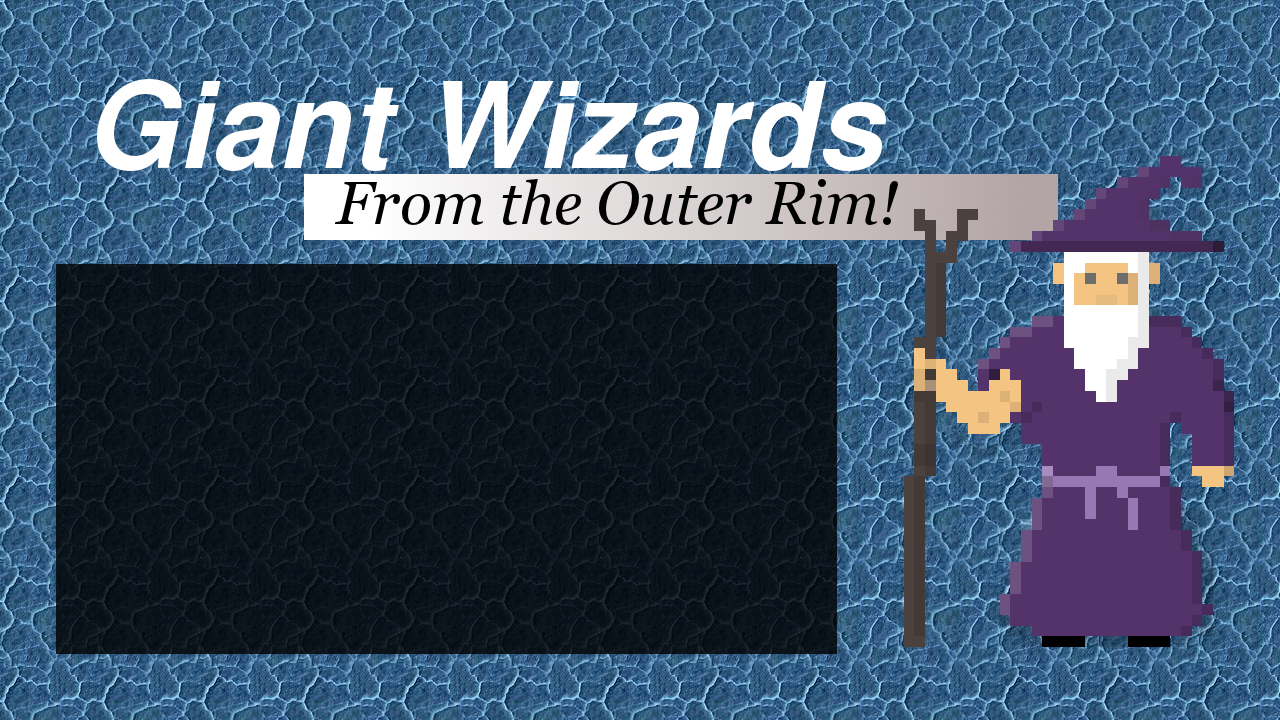
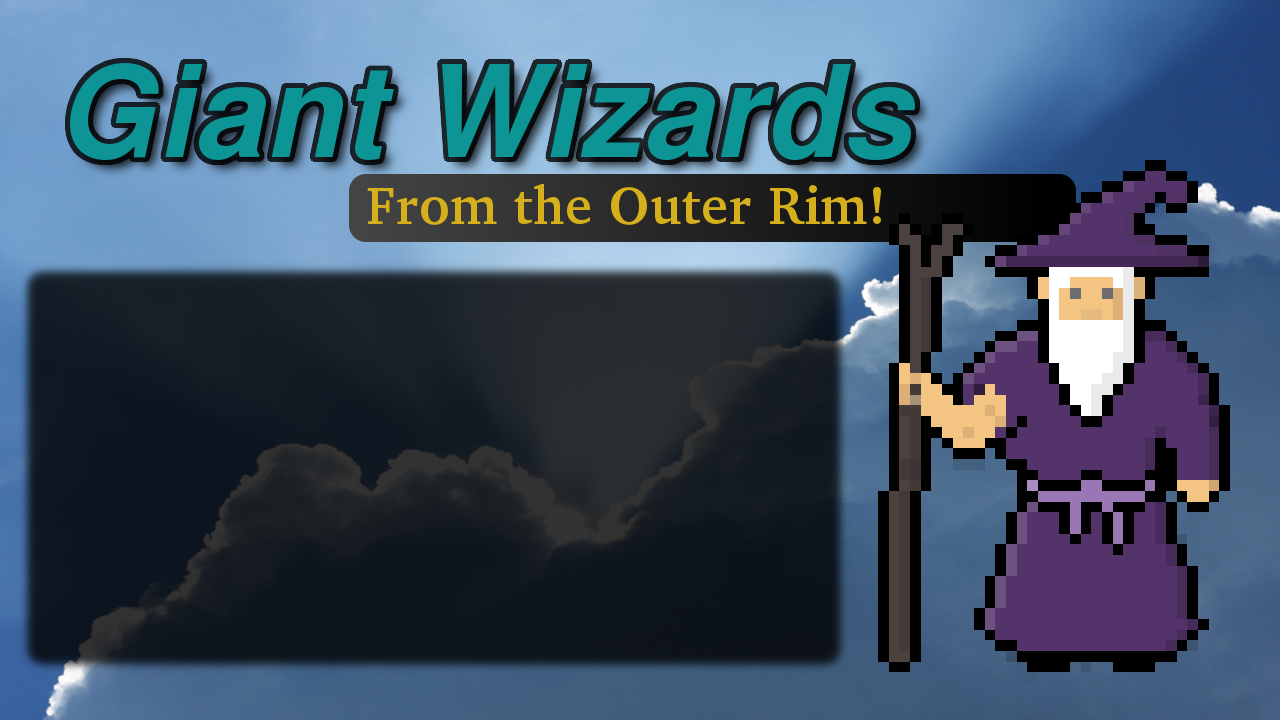
added the updated font

diff --git a/main_menu.py b/main_menu.py
@@ -18,6 +18,7 @@ class MainMenu(object):
                           0)
         self.static_text = []
         self.buttons = []
+        offset = Point(-0.005*gamedata.screen.x,-0.045*gamedata.screen.y)
         
         #This is stupid but there's only a few hours to go and I still need to get pyinstaller working!
         callbacks = [self.PlayerChange0,
@@ -26,24 +27,24 @@ class MainMenu(object):
                      self.PlayerChange3]
         for i,name in enumerate(game_window.names):
             item = texture.TextObject(name,gamedata.text_manager)
-            item.Position(Point(0.05*gamedata.screen.x,
+            item.Position(offset+Point(0.05*gamedata.screen.x,
                                 (0.55-i*0.1)*gamedata.screen.y),
                           0.7)
             self.static_text.append(item)
-            button = texture.TextButtonUI(gamedata.player_config[i],Point(0.50*gamedata.screen.x,
+            button = texture.TextButtonUI(gamedata.player_config[i],offset+Point(0.50*gamedata.screen.x,
                                                          (0.55-i*0.1)*gamedata.screen.y),
                                           size=0.7,
                                           callback = callbacks[i],
                                           line_width=4)
             self.RegisterUIElement(button,1)
             self.buttons.append(button)
-        self.play_button = texture.TextButtonUI('Play',Point(0.22*gamedata.screen.x,
+        self.play_button = texture.TextButtonUI('Play',offset+Point(0.22*gamedata.screen.x,
                                                              (0.15)*gamedata.screen.y),
                                                 size=0.7,
                                                 callback = self.Play,
                                                 line_width=4)
         self.RegisterUIElement(self.play_button,1)
-        self.exit_button = texture.TextButtonUI('Exit',Point(0.35*gamedata.screen.x,
+        self.exit_button = texture.TextButtonUI('Exit',offset+Point(0.35*gamedata.screen.x,
                                                              (0.15)*gamedata.screen.y),
                                                 size=0.7,
                                                 callback = self.Quit,

diff --git a/texture.py b/texture.py
@@ -255,6 +255,7 @@ class TextButtonUI(UIElement):
         self.SetVertices()
 
     def Hover(self):
+        #print pygame.mouse.get_cursor()
         self.hovered = True
         for i in xrange(4):
             self.hover_quads[i].Enable()
@@ -294,4 +295,19 @@ class TextButtonUI(UIElement):
             self.callback(pos)
             
         
+class TexturedButton(TextButtonUI):
+    def __init__(self,text,pos,size=0.5,callback = None,line_width=2):
+        self.text = TextObject(text,gamedata.text_manager)
+        self.text.Position(pos,size)
+        self.pos = pos
+        self.callback = callback
+        super(TextButtonUI,self).__init__(pos,self.text.top_right)
+        self.hover_quads = [utils.Quad(gamedata.ui_buffer) for i in xrange(4)]
+        self.line_width = line_width
+        self.SetVertices()
+        self.hovered = False
+        self.selected = False
+        for i in xrange(4):
+            self.hover_quads[i].Disable()
+
         
